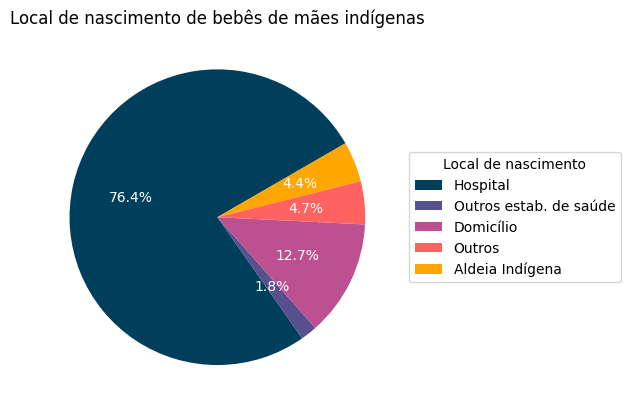
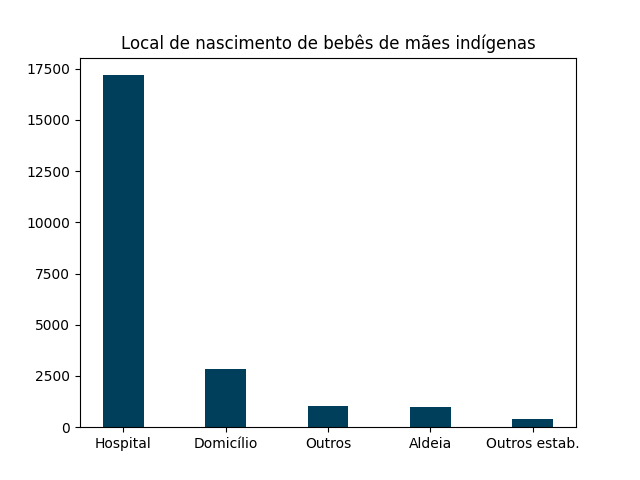
Modifique o gráfico da análise 2

diff --git a/modules/analysis/yure/visualization.py b/modules/analysis/yure/visualization.py
@@ -4,7 +4,8 @@ import numpy as np
 
 
 def plot_bar_chart_with_hline(values: list[int], labels: list[str], line_y: float, path_output: str,
-    bottom: float = 0, title: str = '', x_label: str = '', y_label: str = '', line_label: str = ''):
+    bottom: float = 0, title: str = '', x_label: str = '', y_label: str = '', line_label: str = '', 
+    hline: bool = True):
     """Cria um gráfico de barras com uma linha horizontal e salva em um arquivo.
 
     Parameters
@@ -27,6 +28,8 @@ def plot_bar_chart_with_hline(values: list[int], labels: list[str], line_y: floa
         Legenda do eixo vertical, by default ''
     line_label : str, optional
         Legenda da linha horizontal, by default ''
+    hline : bool, optional
+        Se True, gera o gráfico com a linha horizontal, by default True
     
     Returns
     -------
@@ -41,55 +44,17 @@ def plot_bar_chart_with_hline(values: list[int], labels: list[str], line_y: floa
 
     ax.bar(index, bar_values, bar_width, bottom=bottom, color='#003f5c')
 
-    ax.axhline(y=line_y, color='black', linestyle='--', label=line_label)
+    if hline:
+        ax.axhline(y=line_y, color='black', linestyle='--', label=line_label)
+        ax.legend()
 
     ax.set_title(title)
     ax.set_xlabel(x_label)
     ax.set_ylabel(y_label)
     ax.set_xticks(index)
     ax.set_xticklabels(labels)
-    ax.legend()
 
     plt.savefig(path_output)
-
-
-def plot_pie_chart(data: list[int], labels: list[str], path_output: str, colors: list[str],
-    title: str = '', legend_title: str = '', loc: str = '', bbox_to_anchor: list[int] = '', start_angle: int = 0):
-    """Cria um gráfico de pizza e salva em um arquivo.
-
-    Parameters
-    ----------
-    data : list[int]
-        Lista com os valores de cada fatia
-    labels : list[str]
-        Lista com os rótulos das fatias
-    path_output : str
-        Arquivo em que o gráfico será salvo
-    colors : list[str]
-        Lista com a cores de cada fati, em formato hexadecimal
-    title : str, optional
-        Título do gráfico, by default ''
-    legend_title : str, optional
-        Cabeçalho da legenda, by default ''
-    loc : str, optional
-        Localização da legenda, by default ''
-    bbox_to_anchor : list[int], optional
-        Lista com 4 inteiros denotando os limites da caixa que contém a legenda, by default ''
-    start_angle : int, optional
-        Ângulo inicial do gráfico, by default 0
-    
-    Returns
-    -------
-    None
-    """
-    fig, ax = plt.subplots()
-
-    ax.pie(data, autopct='%1.1f%%', textprops=dict(color="w"), colors=colors, startangle=start_angle)
-
-    ax.legend(labels=labels, title=legend_title, loc=loc, bbox_to_anchor=bbox_to_anchor)
-    ax.set_title(title)
-    
-    plt.savefig(path_output, bbox_inches='tight')
 
 
 def plot_stacked_percentage_hbar(data: pd.DataFrame, column_1: str, column_2: str, labels_bars: list[str],

diff --git a/modules/analysis/yure/make_images.py b/modules/analysis/yure/make_images.py
@@ -15,10 +15,10 @@ visualization.plot_bar_chart_with_hline(values=dados['MEDIA'], labels=['Branca',
 
 dados = analysis.dados_racacormae_locnasc(dados_csv)
 locnasc_indigenas = dados.loc[5]['NUMREGISTROS']
-visualization.plot_pie_chart(data=locnasc_indigenas, colors=['#003f5c', '#58508d', '#bc5090', '#ff6361', '#ffa600'],
-    labels=['Hospital', 'Outros estab. de saúde', 'Domicílio', 'Outros', 'Aldeia Indígena'], start_angle=30,
-    title='Local de nascimento de bebês de mães indígenas', legend_title='Local de nascimento',
-    loc='center left', bbox_to_anchor=(1, 0, 0.5, 1), path_output='images/imagem2.png')
+locnasc_indigenas = locnasc_indigenas.sort_values(ascending=False)
+visualization.plot_bar_chart_with_hline(values=locnasc_indigenas, labels=['Hospital', 'Domicílio', 'Outros',
+    'Aldeia', 'Outros estab.'], bottom=0, title='Local de nascimento de bebês de mães indígenas',
+    hline = False, line_y=0, path_output='images/imagem2.png')
 
 dados = analysis.dados_racacormae_parto(dados_csv)
 visualization.plot_stacked_percentage_hbar(data=dados, labels_bars=['Branca', 'Preta', 'Amarela', 'Parda', 'Indígena'],
